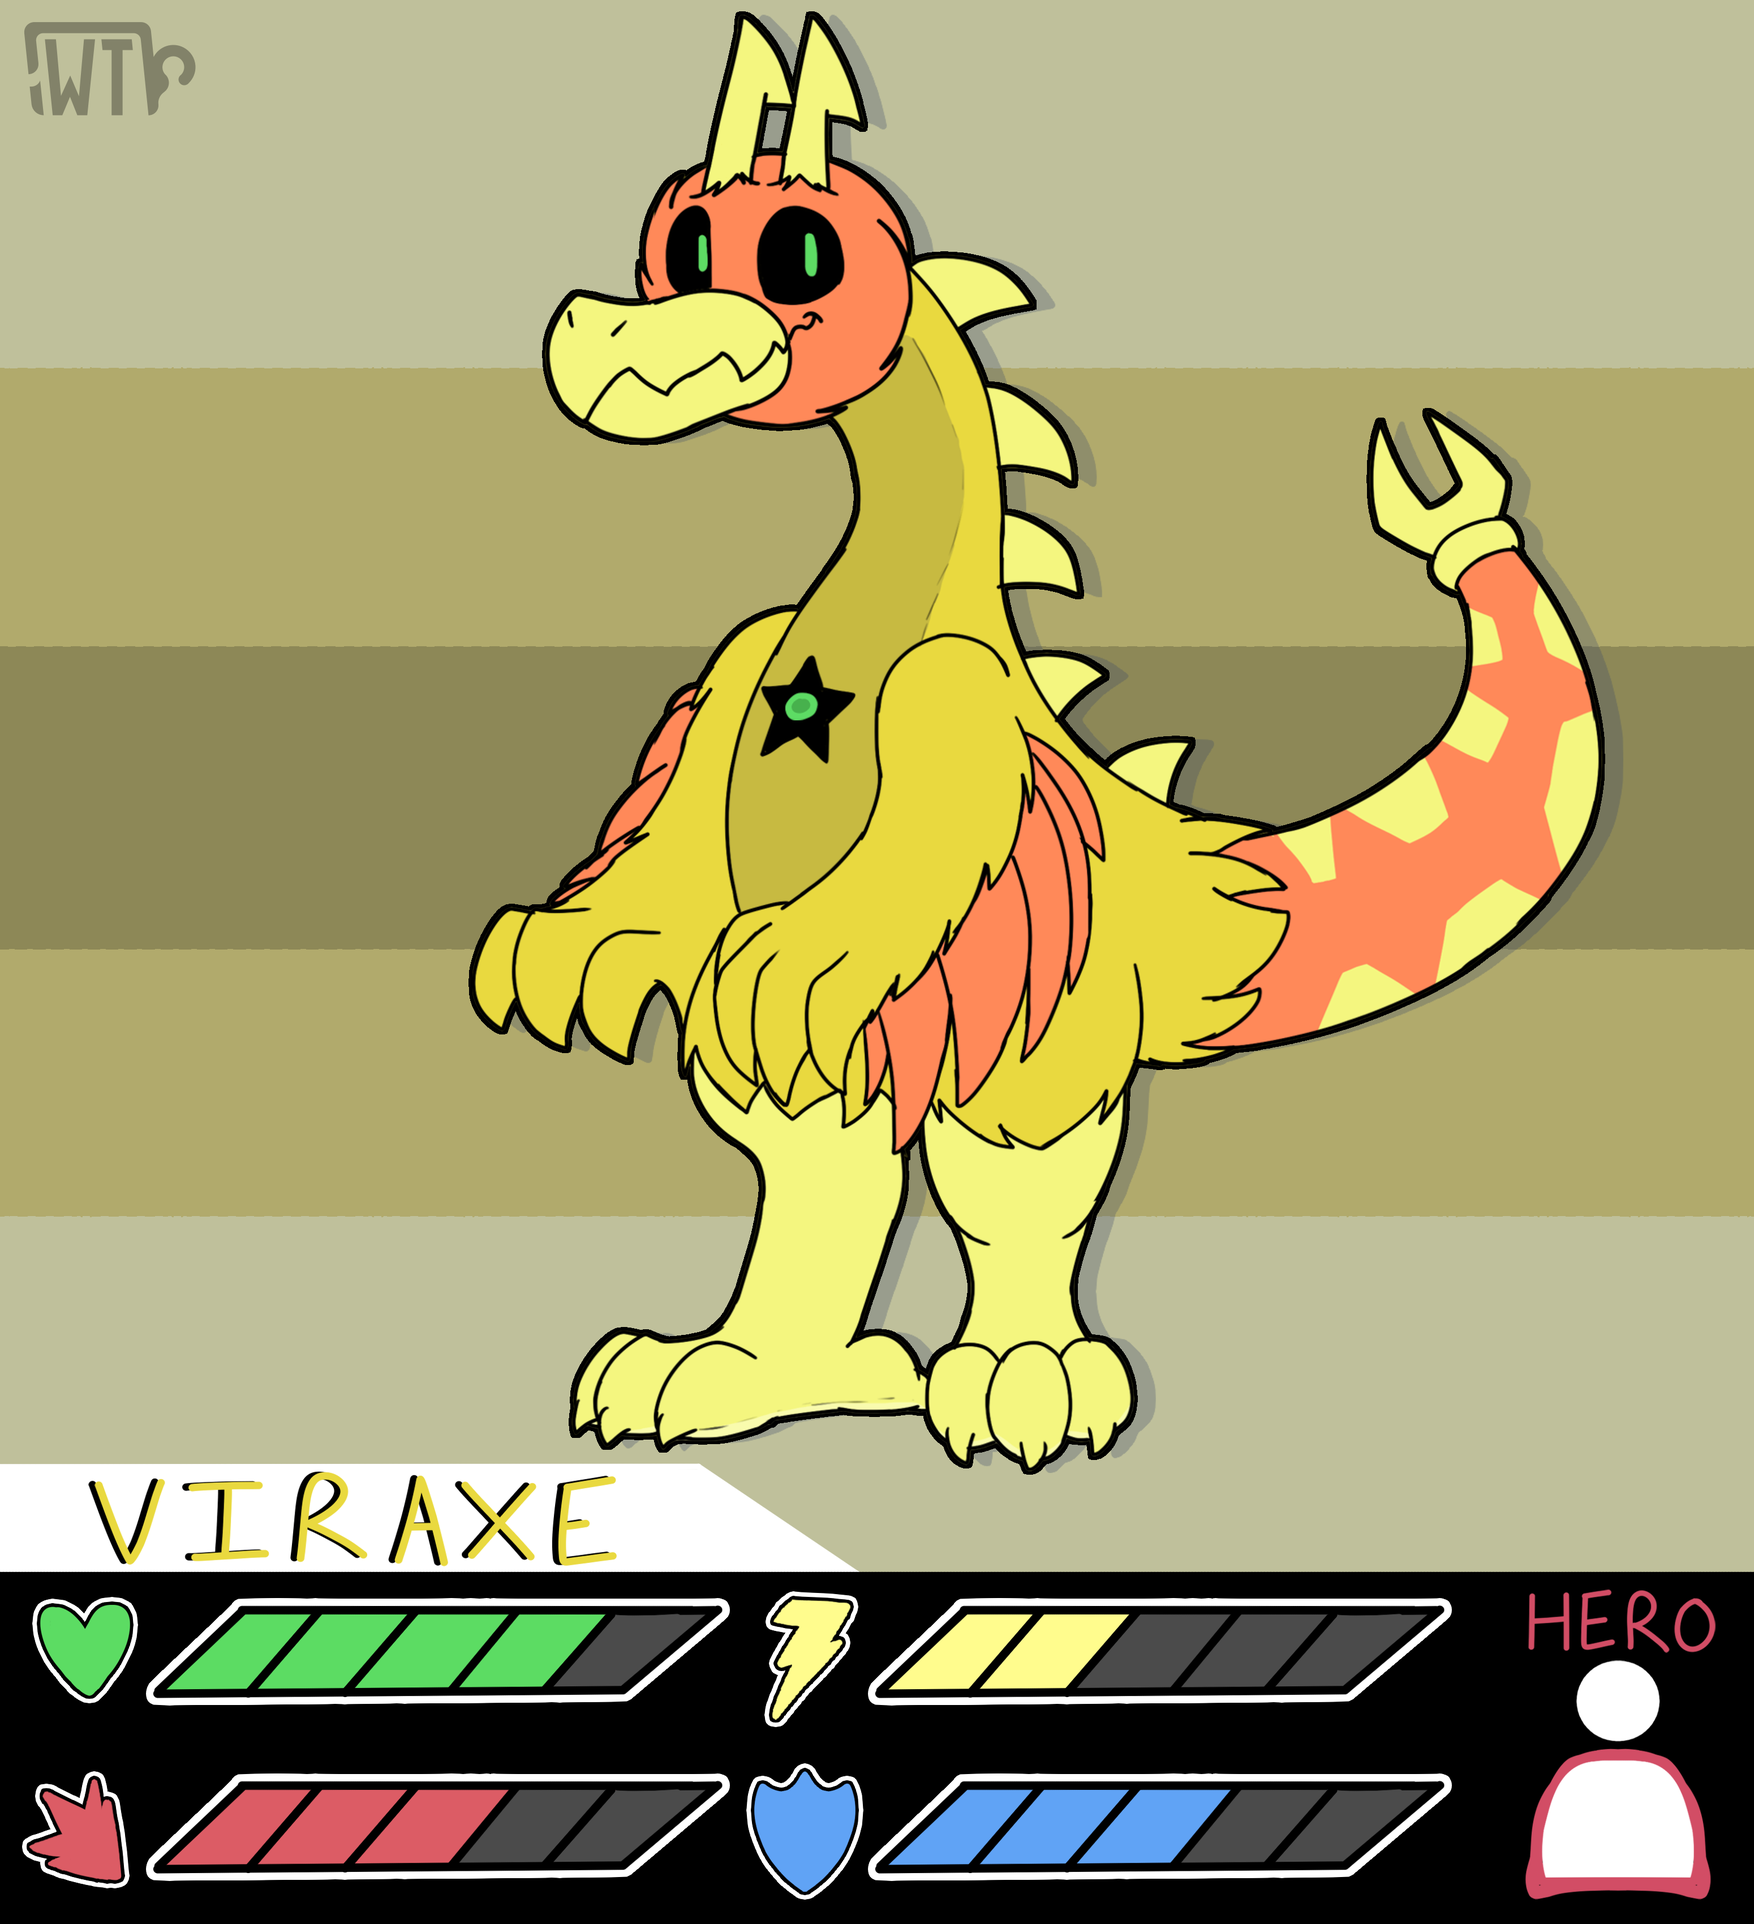
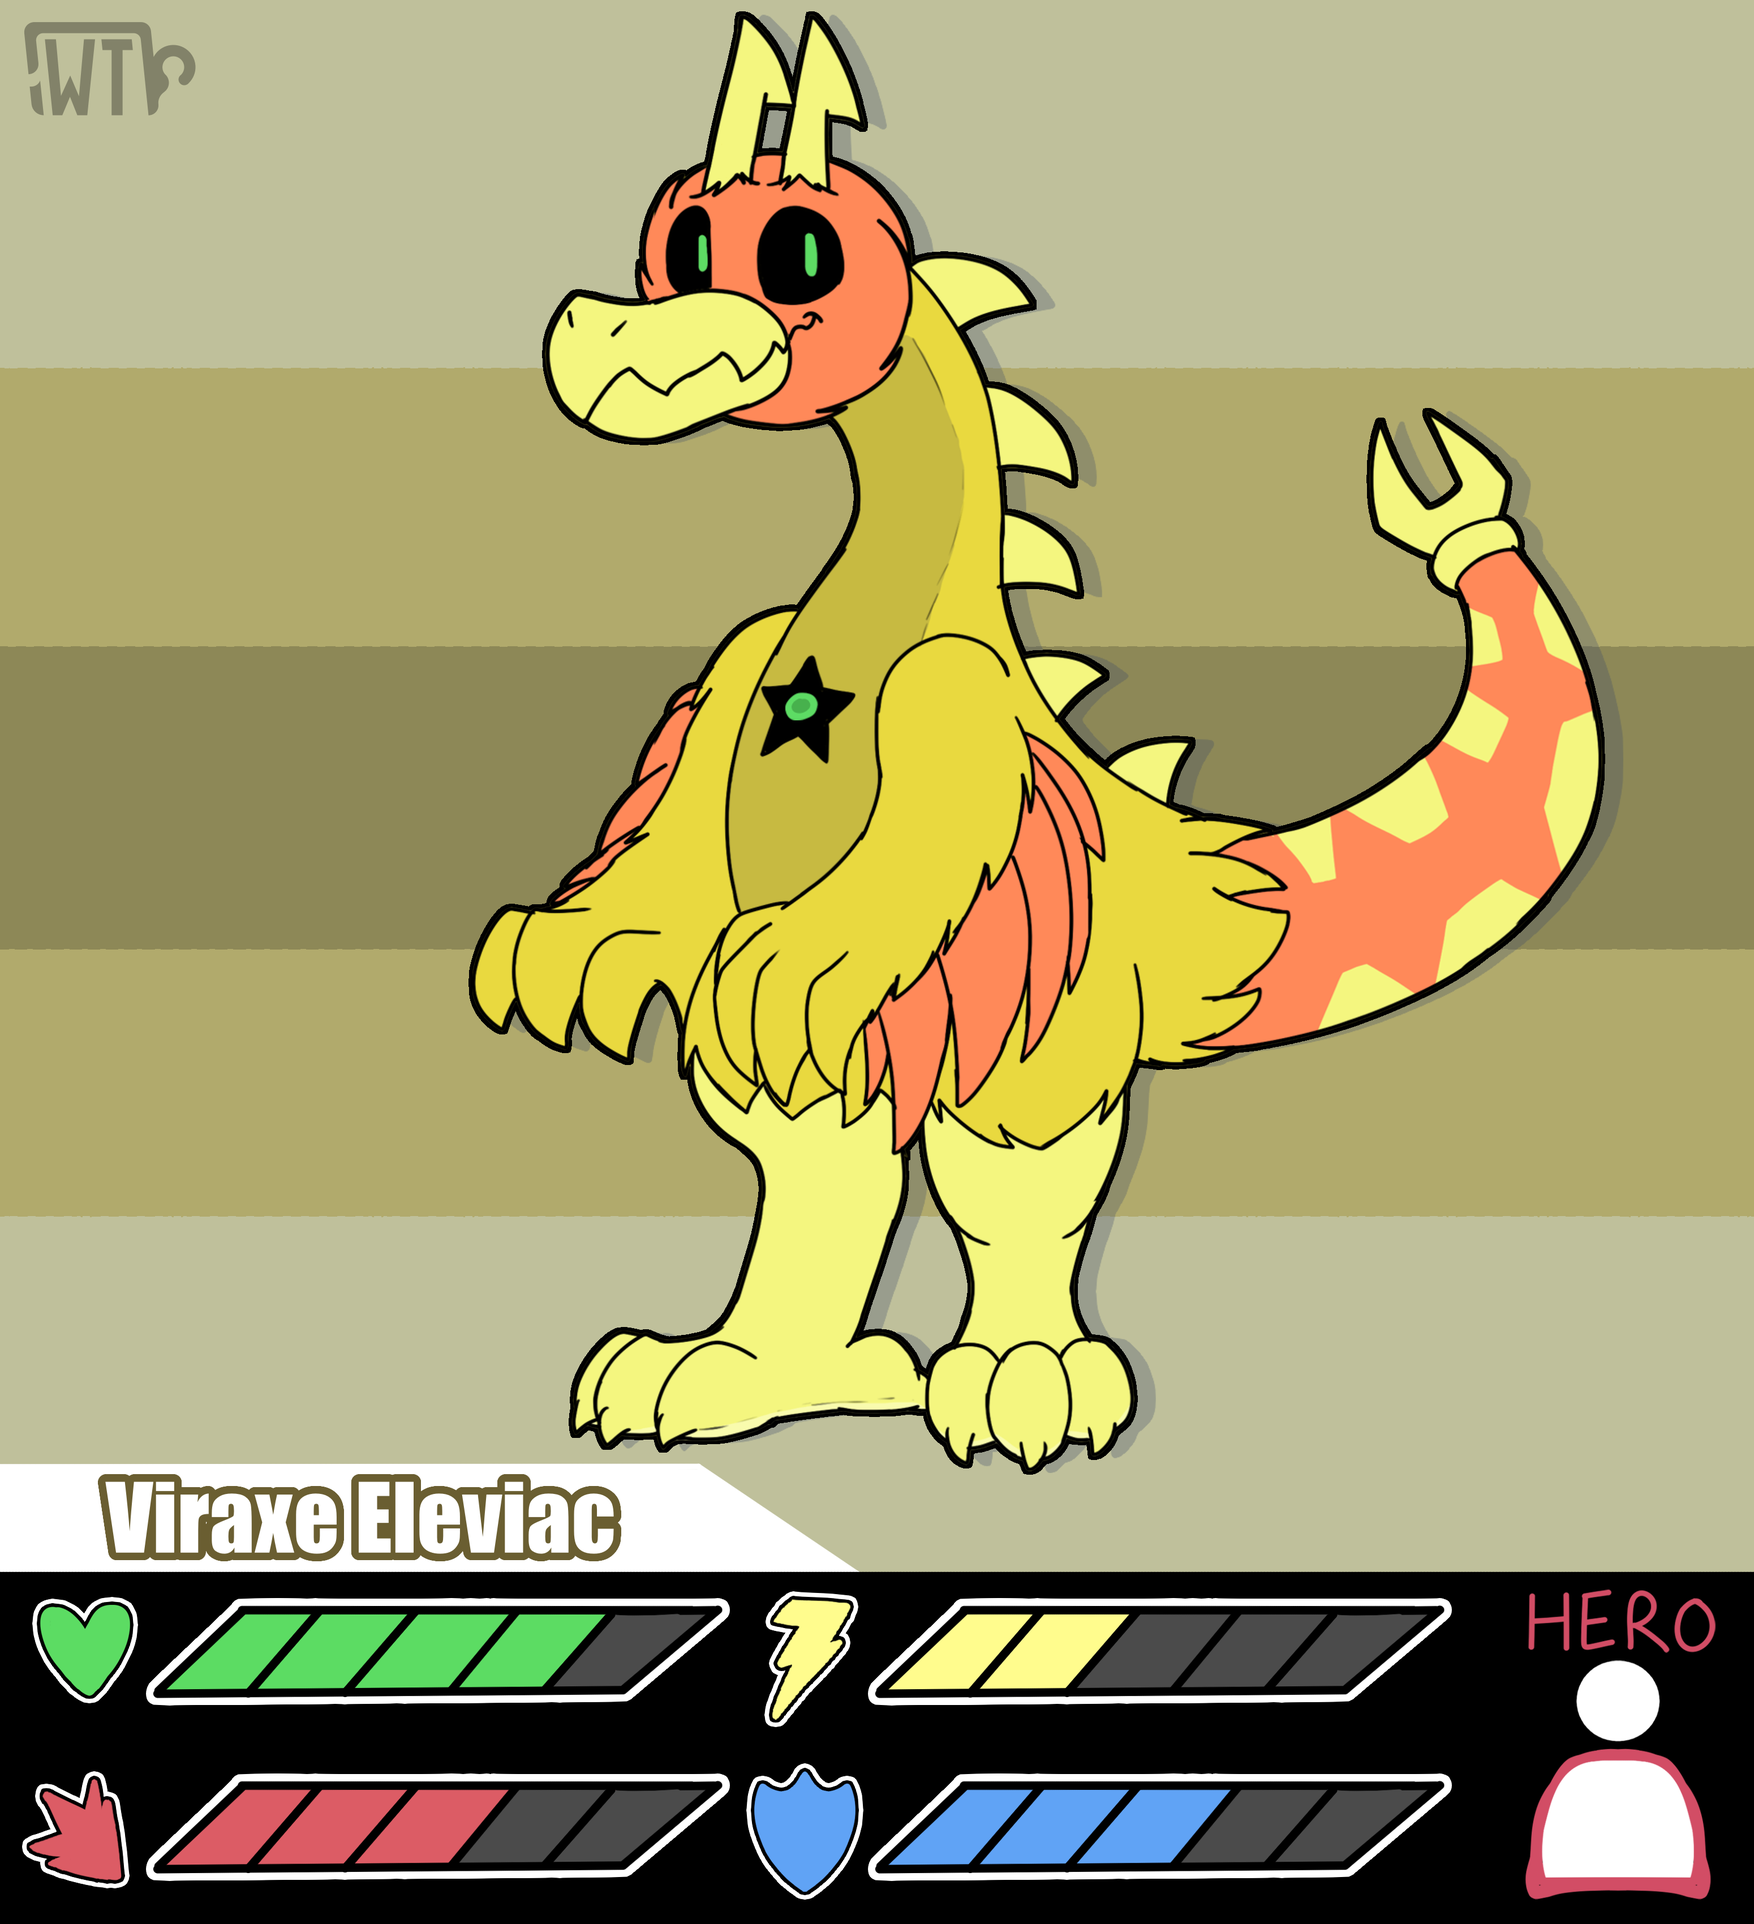
Overhall update, Added credit screen

Changed region(s): [[0.031, 0.7482, 0.3716, 0.8106]]

diff --git a/CharacterLibraryRework/src/application/appMethods.java b/CharacterLibraryRework/src/application/appMethods.java
@@ -2,23 +2,34 @@ package application;
 
 import javax.sound.sampled.*;
 
+import javafx.animation.FadeTransition;
+import javafx.animation.Interpolator;
 import javafx.animation.KeyFrame;
 import javafx.animation.KeyValue;
+import javafx.animation.PauseTransition;
 import javafx.animation.Timeline;
+import javafx.animation.TranslateTransition;
+import javafx.application.Platform;
 import javafx.beans.binding.Bindings;
 import javafx.beans.property.SimpleStringProperty;
 import javafx.collections.FXCollections;
 import javafx.collections.ObservableList;
+import javafx.geometry.Pos;
 import javafx.scene.control.Alert;
 import javafx.scene.control.Button;
 import javafx.scene.control.ButtonBar.ButtonData;
 import javafx.scene.control.ButtonType;
 import javafx.scene.control.ComboBox;
+import javafx.scene.control.Label;
 import javafx.scene.control.TableColumn;
 import javafx.scene.control.TableView;
 import javafx.scene.control.TextArea;
 import javafx.scene.control.Tooltip;
 import javafx.scene.control.cell.TextFieldTableCell;
+import javafx.scene.layout.HBox;
+import javafx.scene.layout.Pane;
+import javafx.scene.layout.Region;
+import javafx.scene.layout.StackPane;
 import javafx.scene.layout.VBox;
 import javafx.util.Duration;
 
@@ -179,10 +190,184 @@ public class appMethods extends customWindows {
             characterRenderButton.setText("Character Not Found");
         }
     }
-
-
-
     
+    
+    
+ // Method to handle the styling of each credit
+    private static String getStyledCredit(String credit) {
+    	  String boldText = "-fx-text-fill: white; -fx-font-size: 40px; -fx-font-weight: bold;";
+    	    String normalText = "-fx-text-fill: white; -fx-font-size: 30px;";
+
+    	    switch (credit) {
+    	        case "TESTERS":
+    	        case "PROJECT TOOLS USED:":
+    	        case "And a special thanks to...":
+    	        case "CHARACTER INFORMATION LIBRARY":
+    	        case  "CHARACTERS OWNED BY WOLFTICAL:":
+    	        case  "CHARACTERS OWNED BY MEGANEKAII:":
+    	            return boldText;
+    	        default:
+    	            return normalText; // Default style for all other labels
+    	    }
+    }
+    public static void showCredits(Pane rootPane) {
+        String[] credits = {
+            "CHARACTER INFORMATION LIBRARY",
+            "App Version: " + appVersion,  
+            "PROGRAMMER / DEVELOPER: WolfTical",  
+            "UI DESIGN: WolfTical",  
+            "ART / ASSETS: WolfTical",   
+            "IN COLLABORATION WITH: MEGANEKAII",   
+            "TESTERS",  
+            "NeoBoudiou",  
+            "DireKrow",  
+            "Pilbemen",
+            "Quoyi",  
+            " ",  
+            "PROJECT TOOLS USED:",
+            "ECLIPSE IDE (JavaFX Library Integration)",
+            "Launch4J (EXE app creator for Java)",
+            "GitHub (Version Control and Application Updates)",
+            "Krita (Drawing/Art Tool Programm)",
+            " ",  
+            "A special thanks to...",  
+            "YOU! The user!",  
+            " ",  
+            "Thank you for using the application!",  
+            " ",  
+            "CHARACTERS OWNED BY WOLFTICAL:",  
+            "Wolftical Triglowsticus",  
+            "Wren Ryzen",  
+            "Doxyn Larchiux",  
+            "Archie Larchiux",  
+            "Drex Dixton",  
+            "Drax Dixton",  
+            "Dr. Stenfort",  
+            "Zalfor Tylox",  
+            "Teforel Vaxin",  
+            "Incident K-5520",  
+            "Incident L-152012",  
+            "Incident P-51420",  
+            "Incident C-11514",  
+            "Incident N-1115",  
+            "Incident U-3114",  
+            "Incident Z-1184",  
+            "Incident P-201518",  
+            "Shark Workers",  
+            " ",  
+            "CHARACTERS OWNED BY MEGANEKAII:",  
+            "Viraxe Eleviac"  
+        };
+
+        // Create a semi-transparent black overlay background
+        Region blackOverlay = new Region();
+        blackOverlay.setStyle("-fx-background-color: rgba(0, 0, 0, 1);");
+        blackOverlay.prefWidthProperty().bind(rootPane.widthProperty());
+        blackOverlay.prefHeightProperty().bind(rootPane.heightProperty());
+
+        HBox header = new HBox(10);
+        header.setAlignment(Pos.TOP_RIGHT);
+        header.setSpacing(20);
+
+        Button closeButton = new Button("Close");
+        closeButton.getStyleClass().add("close");
+
+        final TranslateTransition[] scrollAnimation = new TranslateTransition[1];
+        final PauseTransition[] delayTask = new PauseTransition[1];
+
+        closeButton.setOnAction(e -> {
+            appMethods.playButtonSFX();
+
+            // Stop animations
+            if (scrollAnimation[0] != null) {
+                scrollAnimation[0].stop();
+            }
+            if (delayTask[0] != null) {
+                delayTask[0].stop();
+            }
+
+            // Remove UI elements
+            rootPane.getChildren().removeAll(blackOverlay, header);
+            rootPane.getChildren().removeIf(node -> node instanceof VBox);
+        });
+
+        header.getChildren().add(closeButton);
+        rootPane.getChildren().addAll(blackOverlay, header);
+
+        // VBox for the credits
+        VBox creditsText = new VBox(10);
+        creditsText.setAlignment(Pos.BOTTOM_CENTER);
+        creditsText.setSpacing(15);
+        creditsText.setStyle("-fx-background-color: transparent;");
+        creditsText.setMouseTransparent(true);  // Ensures credits don't block interactions
+
+        rootPane.getChildren().add(creditsText);
+
+        // Adding credit labels to the VBox
+        for (String credit : credits) {
+            Label creditLabel = new Label(credit);
+            creditLabel.setStyle(getStyledCredit(credit)); // Apply styles
+            creditsText.getChildren().add(creditLabel);
+        }
+
+        // Ensure credits are hidden before starting animation
+        creditsText.setOpacity(0);
+        creditsText.setTranslateY(rootPane.getHeight() + 100); // Position credits below the screen
+
+        // Delay before starting the animation (ensures UI has time to render)
+        delayTask[0] = new PauseTransition(Duration.seconds(0.1));
+        delayTask[0].setOnFinished(event -> {
+            // Calculate screen height and starting Y position
+            double screenHeight = rootPane.getHeight();
+            double creditsHeight = creditsText.getBoundsInParent().getHeight(); // Height of the credits text container
+
+            // Dynamically set the starting Y position to be just below the screen
+            double startYPosition = screenHeight + creditsHeight * 0.5; 
+
+            // Set the VBox translation to start below the screen
+            creditsText.setTranslateY(startYPosition);
+
+            // Get dynamic height based on text content
+            double totalScrollDistance = creditsHeight + screenHeight;
+
+            // Dynamically calculate scroll duration
+            int numLines = credits.length; 
+            double durationPerLine = 0.75; // Adjust as needed
+            double minScrollDuration = 10;
+            double scrollDuration = Math.max(minScrollDuration, numLines * durationPerLine);
+
+            // Start the scroll animation
+            scrollAnimation[0] = new TranslateTransition(Duration.seconds(scrollDuration), creditsText);
+            scrollAnimation[0].setToY(-totalScrollDistance); 
+            scrollAnimation[0].setInterpolator(Interpolator.LINEAR);
+
+            // Fade in the credits at the same time
+            FadeTransition fadeIn = new FadeTransition(Duration.seconds(1), creditsText);
+            fadeIn.setFromValue(0); // Start invisible
+            fadeIn.setToValue(1);   // Fade to visible
+
+            // Play both animations simultaneously
+            fadeIn.play();
+            scrollAnimation[0].play();
+
+            // Pause at the end before removing
+            scrollAnimation[0].setOnFinished(finishEvent -> {
+                PauseTransition finalPause = new PauseTransition(Duration.seconds(5));
+                finalPause.setOnFinished(p -> rootPane.getChildren().remove(creditsText));
+                finalPause.play();
+            });
+        });
+
+        delayTask[0].play();
+
+        rootPane.getStylesheets().add(mainUI.class.getResource("applicationUISheet.css").toExternalForm());
+    }
+
+
+
+
+
+
     
     public static Button createCharacterButton(String characterName, Button characterRenderButton) {
         Button button = new Button(characterName);

diff --git a/CharacterLibraryRework/src/application/customWindows.java b/CharacterLibraryRework/src/application/customWindows.java
@@ -196,6 +196,42 @@ public class customWindows extends mainUI{
 
 	        optionsLayout.getChildren().add(helpSection);
 	    });
+	    
+	    
+	    // Extras Category Button
+	    Button extraCategory = new Button("Extras");
+	    extraCategory.getStyleClass().add("close");
+	    extraCategory.setOnAction(e -> {
+	        appMethods.playButtonSFX(); // Play button sound
+	        optionsLayout.getChildren().clear();
+	        optionsLayout.getChildren().add(titleBar); // Re-add title bar
+	        optionsLayout.getChildren().add(helpLabel); // Add the Label for help content
+
+	        VBox extraButtons = new VBox(10); // VBox to hold buttons vertically
+	        extraButtons.setAlignment(Pos.CENTER); // Center the buttons within the VBox
+
+	        Button creditsButton = new Button("Credits");
+	        creditsButton.getStyleClass().add("pink");
+	        creditsButton.prefWidthProperty().bind(rootPane.widthProperty().multiply(0.5));
+	        creditsButton.setOnAction(e1 -> {
+	            appMethods.playButtonSFX();
+	            helpLabel.setText("CREDITS DISPLAYED");
+	            appMethods.showCredits(rootPane); // Call with custom title
+	        });
+
+	       
+	      
+
+	        extraButtons.getChildren().addAll(creditsButton);
+
+	        // Create a new VBox to stack buttons and the label
+	        VBox extraSection = new VBox(15);
+	        extraSection.setAlignment(Pos.TOP_CENTER); // Align to the top center
+	      
+	        extraSection.getChildren().addAll(extraButtons, helpLabel); // Add buttons and label to the section
+
+	        optionsLayout.getChildren().add(extraSection);
+	    });
 
 	    // Close Button
 	    Button closeButton = new Button("Close");
@@ -205,7 +241,7 @@ public class customWindows extends mainUI{
 	        rootPane.getChildren().remove(optionsLayout); // Remove the overlay
 	    });
 
-	    titleBar.getChildren().addAll(optionCategory, helpCategory, closeButton);
+	    titleBar.getChildren().addAll(optionCategory, helpCategory,extraCategory, closeButton);
 
 	    optionsLayout.getChildren().add(titleBar);
 
@@ -214,6 +250,11 @@ public class customWindows extends mainUI{
 	    optionsLayout.getStylesheets().add(mainUI.class.getResource("applicationUISheet.css").toExternalForm());
 	}
 
+	
+	
+	
+	
+	
 	public static void showCharacterRender(String characterName, Pane rootPane) {
 	    characterInfo character = characterInfo.characterMap.get(characterName);
 

diff --git a/CharacterLibraryRework/src/application/mainUI.java b/CharacterLibraryRework/src/application/mainUI.java
@@ -30,7 +30,7 @@ import javafx.scene.layout.*;
 public class mainUI extends Application {
 	   public static String selectedCharacterName = null;  // CharacterName Variable, it's accessible across all methods
 	   
-	   static double appVersion = 4.1;
+	   static double appVersion = 4.2;
 	   static String applastUpdate = "2/5/2025";
 	   
 	   
@@ -128,7 +128,7 @@ public class mainUI extends Application {
 	      
 
 	        Button options = new Button("Options/Extras");
-	        options.getStyleClass().add("pink");
+	        options.getStyleClass().add("orange");
 	        options.setMaxWidth(Double.MAX_VALUE);
 	        options.setOnAction(e -> { appMethods.playButtonSFX(); customWindows.showOptions(primaryStage, screenOverlay);});
 	         
@@ -142,7 +142,7 @@ public class mainUI extends Application {
 	        scrollPaneForButtons.setFitToWidth(true); // Ensure scrollable content fits the width
 	        
 	        // Add buttons to the left panel
-	        leftPanel.getChildren().addAll(searchBar, characterComboBox, charScrollPane, characterRenderButton,options);
+	        leftPanel.getChildren().addAll(searchBar, characterComboBox, charScrollPane, characterRenderButton);
 	        root.setLeft(leftPanel);
 
 	        // Center Panel (Cyan) - Main Content Display
@@ -334,7 +334,7 @@ public class mainUI extends Application {
 	        });
 
 	        
-	        bottomPanel.getChildren().addAll(playAudioButton, resetAudioButton, audioComboBox, volumeSlider);
+	        bottomPanel.getChildren().addAll(options, playAudioButton, resetAudioButton, audioComboBox, volumeSlider);
 	        root.setBottom(bottomPanel);
 
 	        // Wrap the BorderPane in a ScrollPane

diff --git a/CharacterLibraryRework/src/application/characterInfo.java b/CharacterLibraryRework/src/application/characterInfo.java
@@ -271,7 +271,7 @@ public class characterInfo extends appMethods{
 	          
 	         // Create the label with the instructions
 	            Label instructionLabel = new Label("CSV loaded! Please edit the table as needed.\n"
-	                    + "Double-click on any column to edit and press Enter to confirm your changes.\n"
+	                    + "Double-click on any column to edit and press Enter to confirm your changes. (DO NOT TYPE ANY COMMAS, this will break the file)\n"
 	                    + "When you're ready, press the 'Confirm' button to save your customizations.\n"
 	                    + "NOTE: Ensure that your custom character files are correctly placed in their respective folders.\n"
 	                    + "Make sure the file name matches what you type in the columns. If your description file is named 'mycharacter.txt' then type that");
